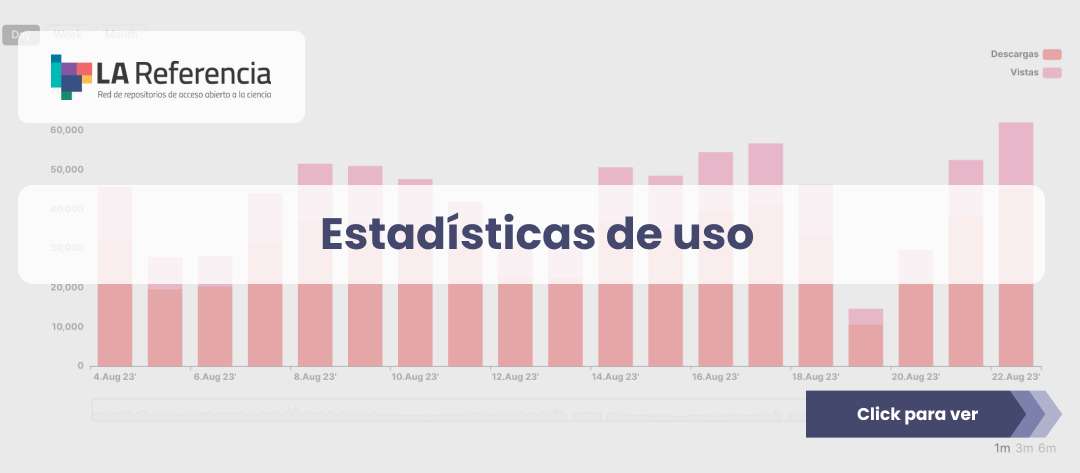
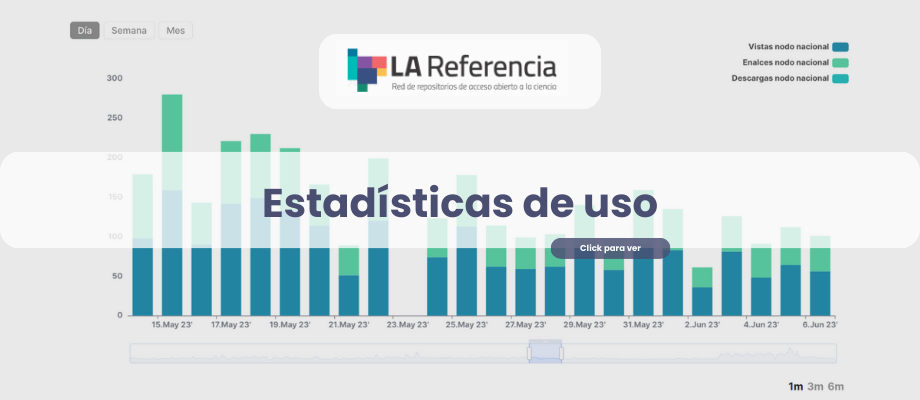
widget version 0.0.8

diff --git a/src/components/bar-chart/BarChart.tsx b/src/components/bar-chart/BarChart.tsx
@@ -13,14 +13,15 @@ interface EventCount {
 }
 
 
-const BarChart: React.FC<BarChartProps> = ({ data, scopeLabels, eventLabels }) => {
+const BarChart: React.FC<BarChartProps> = ({ data, scopeLabels, eventLabels, styles }) => {
 
   const [timeInterval, setTimeIntervale] = useState({ type: 'slider', start: 95, end: 100});
-  const chartRef = useRef(null);
+  const chartRef = useRef<HTMLDivElement>(null);
 
   const events = getEvents(data, scopeLabels, eventLabels); 
   const mergedEvents = mergeEventsByDate(events);  
   
+ 
     
   useEffect(() => {
     
@@ -30,6 +31,9 @@ const BarChart: React.FC<BarChartProps> = ({ data, scopeLabels, eventLabels }) =
       const xAxis = mergedEvents.map( event => event.Fecha)
       const series: any[] = [];
       //agregale el tipo a la serie
+      
+      // chartRef.current.style.height = `${styles.height}`;
+      // console.log(chartRef.current);
 
 
       // start transforming the data for the chart
@@ -124,7 +128,7 @@ const BarChart: React.FC<BarChartProps> = ({ data, scopeLabels, eventLabels }) =
             6m
         </span>
       </div>
-      <div ref={chartRef} className={style.container} ></div>
+      <div id="bar-chart" ref={chartRef} className={style.container} style={{height:`${styles.height}`}} ></div>
 
     </>
   )

diff --git a/src/App.tsx b/src/App.tsx
@@ -27,6 +27,9 @@ function App() {
     view: 'Vistas',
     outlink: 'Enalces'
   }
+  const styles = widgetParams && widgetParams.styles.chart || {
+    height: '300px',
+  }
  
   const preview: boolean = widgetParams && widgetParams.preview !== false ? true : false;
   // const preview: boolean = true;
@@ -125,7 +128,16 @@ function App() {
               Mes
             </button>
           </div>
-          { isLoading || !data ? <Loading /> : <BarChart data={data} scopeLabels={scopeLabels} eventLabels={eventLabels} /> }
+          { isLoading || !data 
+            ? <Loading 
+                styles={styles} /> 
+            : <BarChart 
+                styles={styles} 
+                data={data} 
+                scopeLabels={scopeLabels} 
+                eventLabels={eventLabels} 
+              /> 
+            }
         </>
       )}
     </div> ) : 

diff --git a/src/components/loading/Loading.tsx b/src/components/loading/Loading.tsx
@@ -1,13 +1,17 @@
 import { MoonLoader } from 'react-spinners';
 
-const Loading = () => {
+type LoadingProps = {
+  styles: any;
+}
+const Loading: React.FC<LoadingProps>  = ({styles}) => {
+
   return (
-    <div style={{height: '450px', display:'flex', justifyContent:'center', alignItems:'center'}}>
+    <div style={{height: `${styles.height}`, display:'flex', justifyContent:'center', alignItems:'center'}}>
        
         <MoonLoader
           color="#080a09"
           cssOverride={{}}
-          size={70}
+          size={40}
           speedMultiplier={1}
         />
 

diff --git a/src/styles/app.module.css b/src/styles/app.module.css
@@ -9,7 +9,6 @@
     align-items: center;
     height: 100%;
     margin: 0 auto;
-    padding: 2rem;
     font-family: 'Poppins', sans-serif; 
     line-height: 1.5;
     font-weight: 400;
@@ -19,7 +18,6 @@
 .container {
     height: 100%;
     margin: 0 auto;
-    padding: 2rem;
     font-family: 'Poppins', sans-serif; 
     line-height: 1.5;
     font-weight: 400;

diff --git a/src/components/PreviewImage.tsx b/src/components/PreviewImage.tsx
@@ -9,7 +9,8 @@ const PreviewImage = () => {
         style={{display:'flex', justifyContent:'center', alignContent:'center'}}>
         <img
           className={style.preview_img}
-          src={previewImageSrc} alt="" 
+          src={previewImageSrc} alt=""
+          style={{ width: '100%', height: '100%', objectFit: 'cover' }}
         />
       </div>
   )

diff --git a/index.html b/index.html
@@ -9,7 +9,7 @@
     <link href="https://fonts.googleapis.com/css2?family=Poppins:wght@300;400;500;600;700&display=swap" rel="stylesheet">
   </head>
   <body>
-    <div id="lareferencia-repository-widget"></div>
+    <div id="lrhw-widget"></div>
     <script type="module" src="/src/main.tsx"></script>
     
   </body>

diff --git a/src/main.tsx b/src/main.tsx
@@ -5,7 +5,7 @@ import App from './App.tsx'
 
 
 
-ReactDOM.createRoot(document.getElementById('lareferencia-repository-widget')!).render( 
+ReactDOM.createRoot(document.getElementById('lrhw-widget')!).render( 
     <React.StrictMode> 
         <App /> 
     </React.StrictMode>

diff --git a/src/interfaces/stadistics.interface.ts b/src/interfaces/stadistics.interface.ts
@@ -18,6 +18,7 @@ export interface BarChartProps {
     data: Stadistics;
     scopeLabels: ScopeLabels;
     eventLabels: EventLabels
+    styles?: any;
 }
 
 export interface ScopeLabels{

diff --git a/src/components/bar-chart/barchart.module.css b/src/components/bar-chart/barchart.module.css
@@ -1,6 +1,4 @@
-.container {
-    height: 100%;
-}
+
 .spanContainer {
     padding: 2rem 1rem 0 1rem;
     display: flex;
